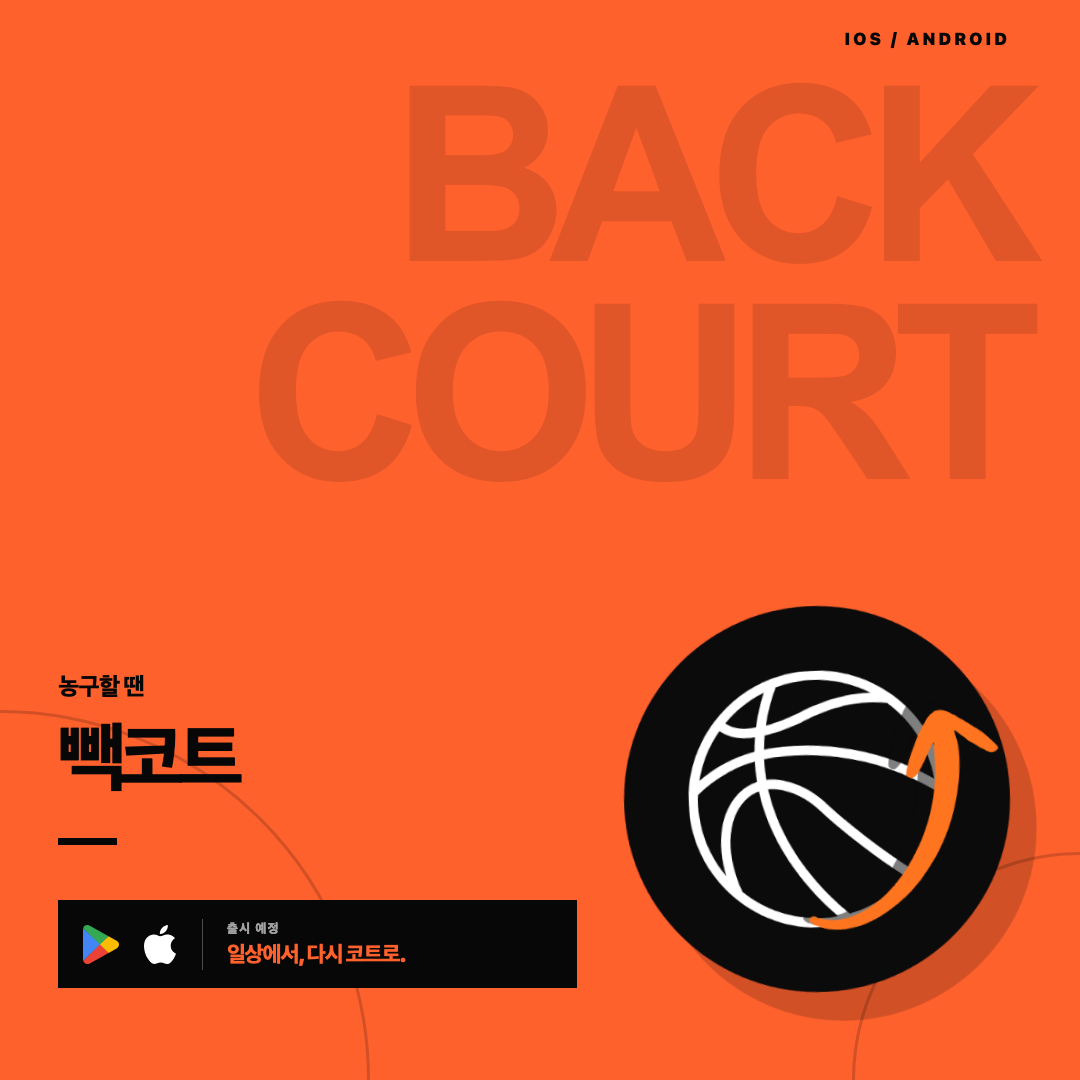
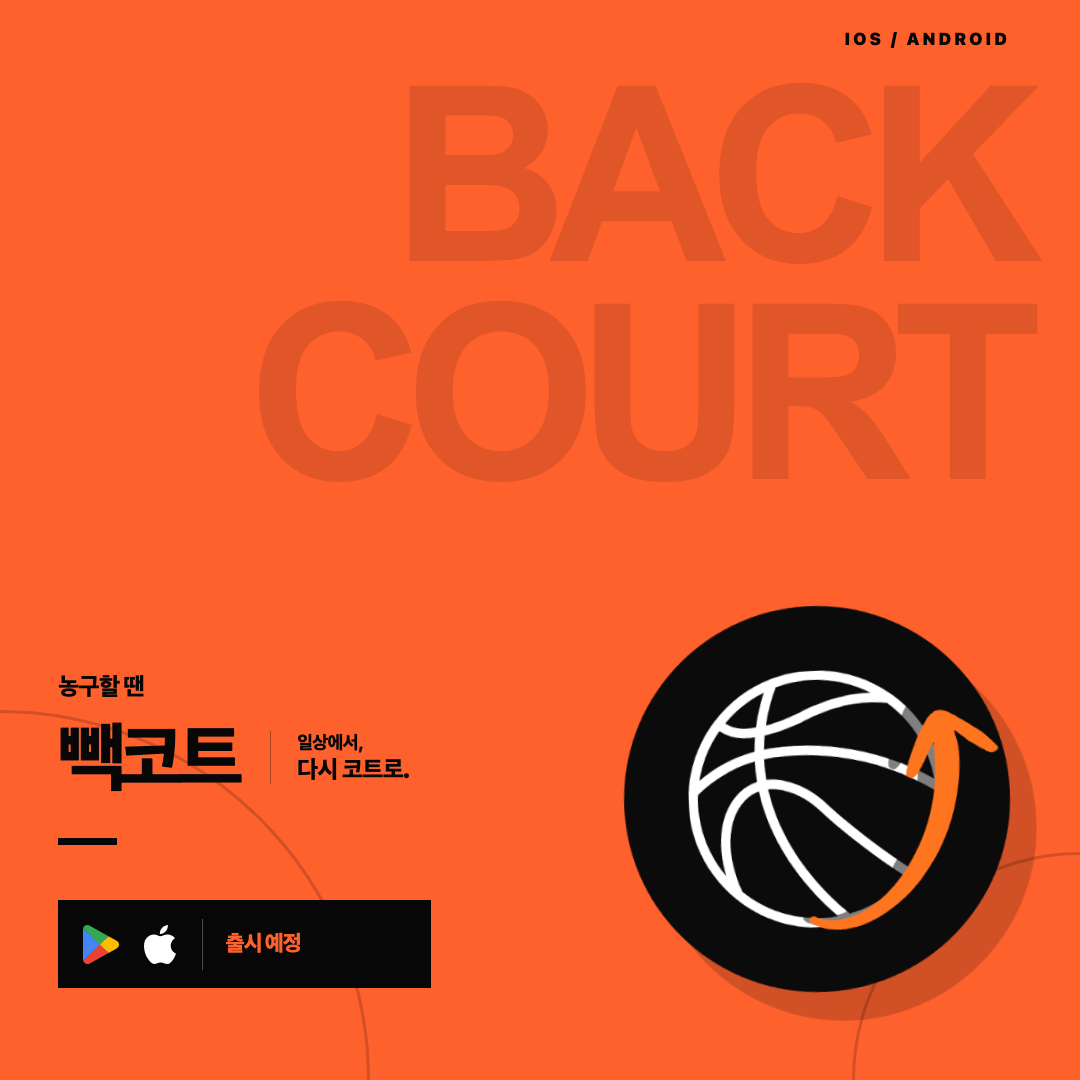
Move launch slogan beside poster title

Changed region(s): [[0.3972, 0.825, 0.55, 0.9167], [0.2139, 0.8556, 0.3667, 0.9167], [0.275, 0.6722, 0.3972, 0.7333]]

diff --git a/Backcourt-Social/styles.css b/Backcourt-Social/styles.css
@@ -27,16 +27,17 @@ a { color: inherit; text-decoration: none; }
 .back-type span { display: block; }
 .platform { position: absolute; z-index: 2; top: 2.7cqw; right: 6.5cqw; font-size: 1.58cqw; font-weight: 950; letter-spacing: .18em; }
 .copy { position: absolute; z-index: 3; left: 5.4cqw; top: 62.2cqw; }
-.copy p { margin: 0 0 1.5cqw; font-size: 2.25cqw; font-weight: 900; }
+.copy .kicker { margin: 0 0 1.5cqw; font-size: 2.25cqw; font-weight: 900; }
+.title-row { display: flex; align-items: center; gap: 3cqw; }
 .copy h2 { margin: 0; font-size: 7.05cqw; line-height: 1; font-weight: 950; letter-spacing: -.08em; }
+.title-slogan { margin: .25cqw 0 0; padding-left: 2.4cqw; border-left: .18cqw solid rgba(7,7,7,.35); font-size: 1.7cqw; line-height: 1.25; font-weight: 800; letter-spacing: -.035em; }
+.title-slogan strong { font-size: 2.25cqw; font-weight: 950; }
 .copy > i { width: 5.4cqw; height: .65cqw; margin: 4.1cqw 0 5.1cqw; display: block; background: var(--ink); }
-.launch { width: 48cqw; height: 8.15cqw; display: flex; align-items: center; color: var(--orange); background: var(--ink); }
+.launch { width: 34.5cqw; height: 8.15cqw; display: flex; align-items: center; color: var(--orange); background: var(--ink); }
 .store-marks { height: 4.7cqw; padding: 0 2.1cqw; display: flex; align-items: center; gap: 1.8cqw; border-right: .18cqw solid rgba(255,255,255,.28); }
 .store-marks img { width: 3.65cqw; height: 3.65cqw; object-fit: contain; }
 .store-marks .apple-logo { filter: invert(1); }
-.launch-copy { margin-left: 2.2cqw; display: flex; flex-direction: column; gap: .45cqw; white-space: nowrap; }
-.launch-copy small { color: rgba(255,255,255,.62); font-size: 1.2cqw; font-weight: 900; letter-spacing: .08em; }
-.launch-copy strong { font-size: 2.05cqw; font-weight: 950; letter-spacing: -.055em; }
+.launch > strong { margin-left: 2.1cqw; font-size: 2.05cqw; font-weight: 950; letter-spacing: -.055em; white-space: nowrap; }
 .hero-icon { position: absolute; z-index: 2; left: 57.8cqw; top: 56.1cqw; width: 35.75cqw; height: 35.75cqw; object-fit: contain; transform: rotate(-3deg); filter: drop-shadow(2.4cqw 2.8cqw 0 rgba(0,0,0,.18)); }
 .court-lines i, .court-lines b { position: absolute; z-index: 1; display: block; border: .28cqw solid rgba(7,7,7,.18); border-radius: 50%; }
 .court-lines i { left: -34.25cqw; bottom: -34.25cqw; width: 68.5cqw; height: 68.5cqw; }

diff --git a/Backcourt-Social/index.html b/Backcourt-Social/index.html
@@ -5,7 +5,7 @@
     <meta name="viewport" content="width=device-width, initial-scale=1.0" />
     <meta name="theme-color" content="#111111" />
     <title>빽코트 홍보 포스터</title>
-    <link rel="stylesheet" href="./styles.css?v=10" />
+    <link rel="stylesheet" href="./styles.css?v=12" />
   </head>
   <body>
     <header class="studio-header">
@@ -28,15 +28,18 @@
             <div class="platform">IOS / ANDROID</div>
 
             <div class="copy">
-              <p>농구할 땐</p>
-              <h2>빽코트</h2>
+              <p class="kicker">농구할 땐</p>
+              <div class="title-row">
+                <h2>빽코트</h2>
+                <p class="title-slogan">일상에서,<br /><strong>다시 코트로.</strong></p>
+              </div>
               <i aria-hidden="true"></i>
               <div class="launch">
                 <div class="store-marks" aria-label="Google Play 및 App Store">
                   <img class="google-play-logo" src="./assets/google-play-logo.svg" alt="Google Play" />
                   <img class="apple-logo" src="./assets/apple-logo.svg" alt="Apple" />
                 </div>
-                <div class="launch-copy"><small>출시 예정</small><strong>일상에서, 다시 코트로.</strong></div>
+                <strong>출시 예정</strong>
               </div>
             </div>
 
